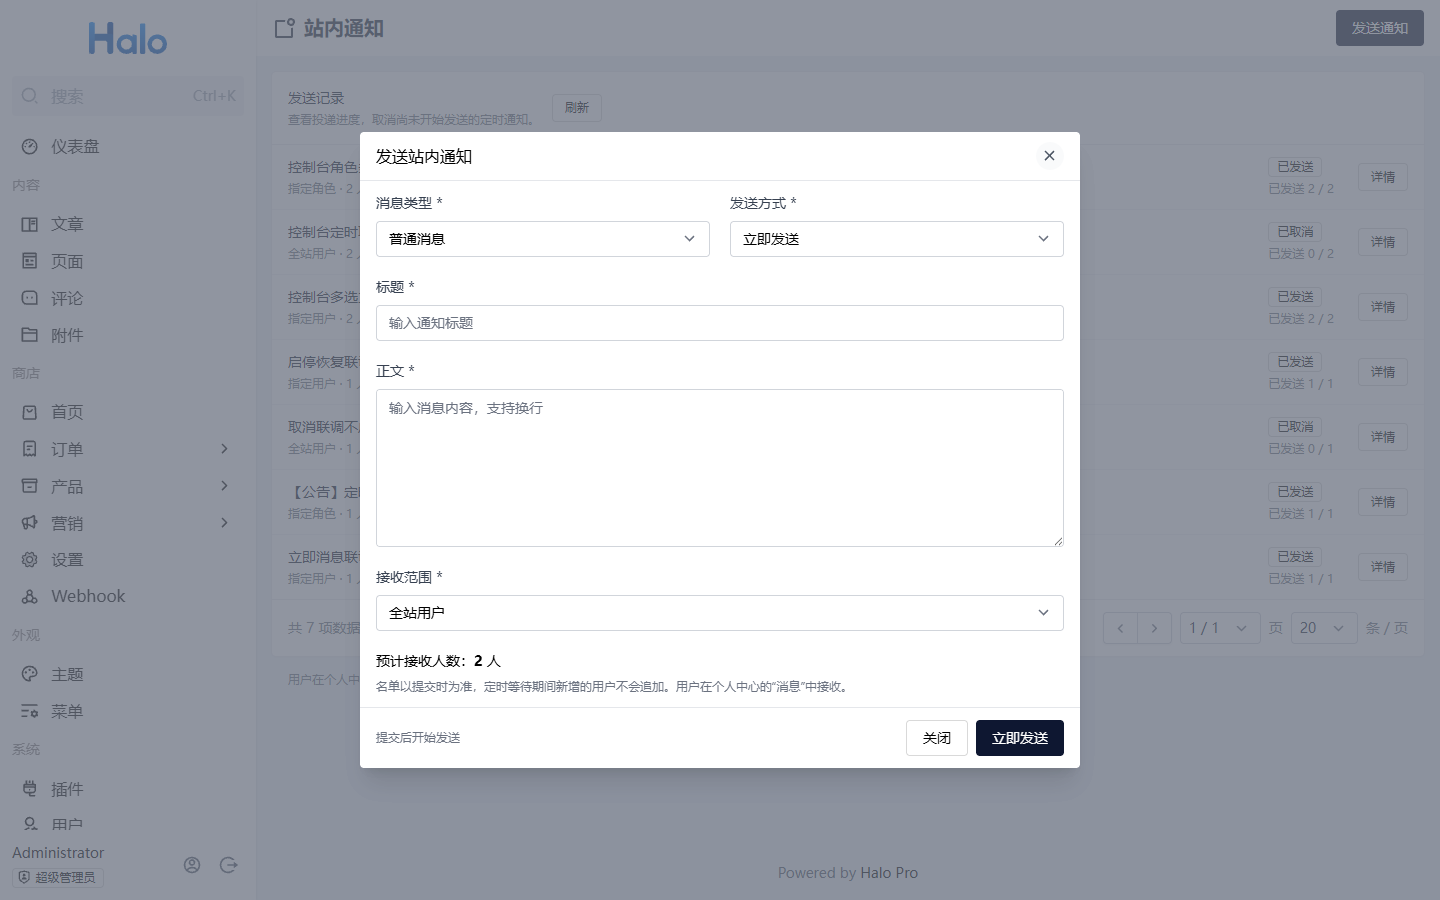
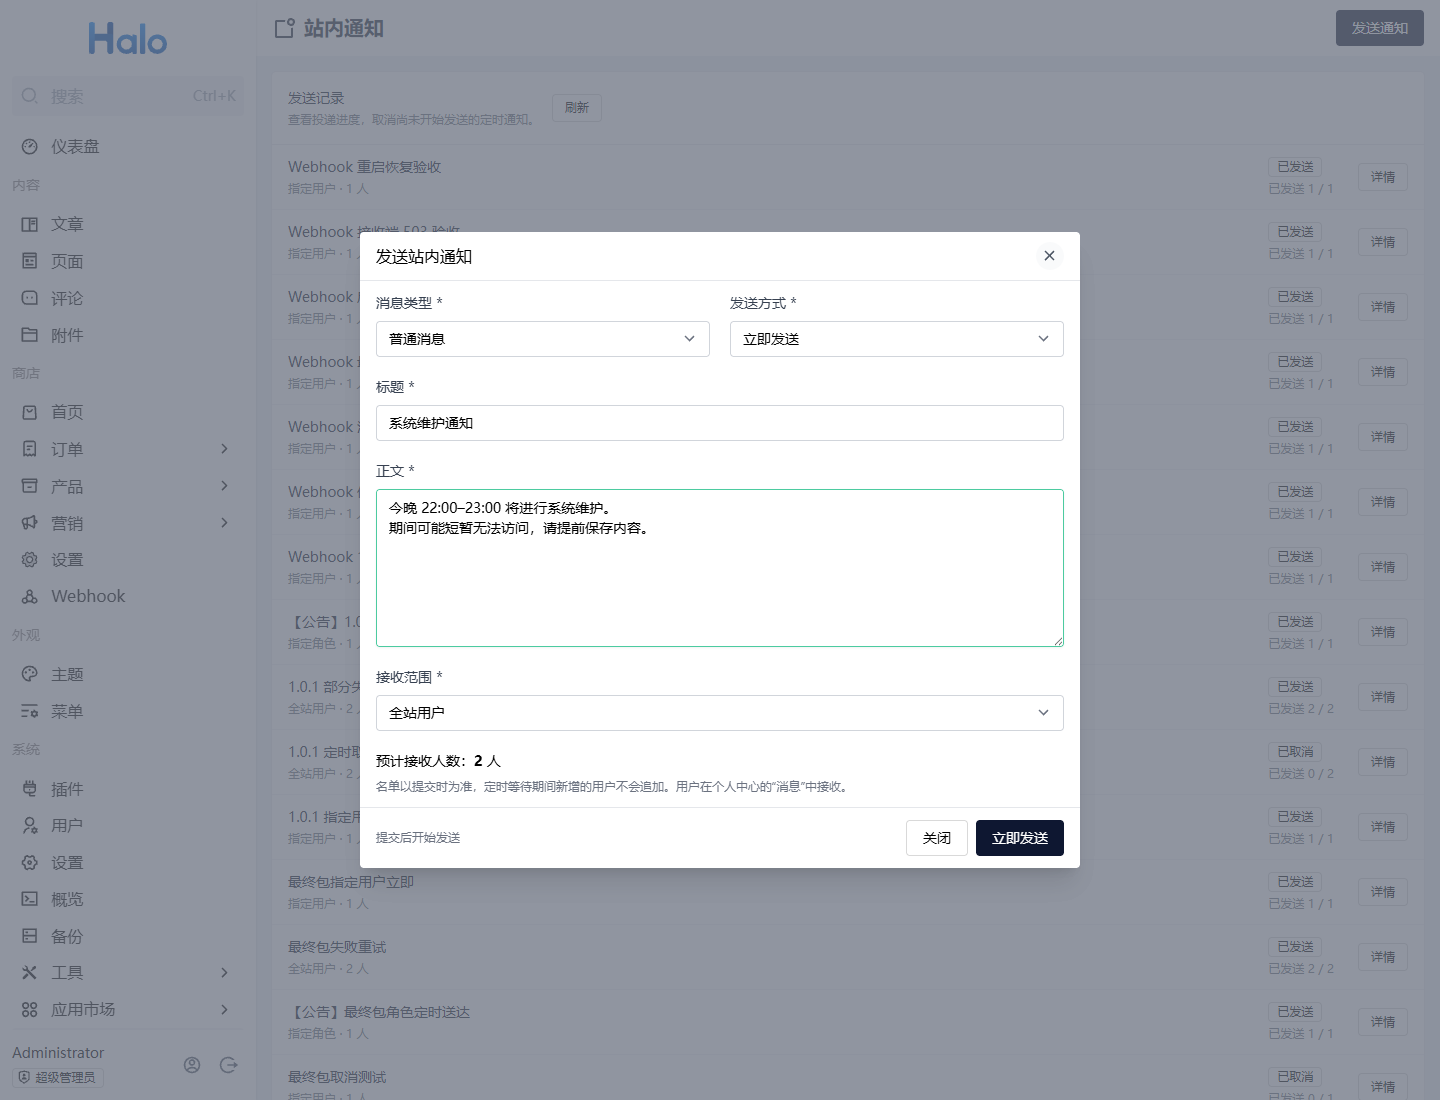
docs: update README with desktop screenshots

diff --git a/README.md b/README.md
@@ -37,20 +37,25 @@
 
 ## 截图预览
 
-### 控制台发送通知
+### 消息发送
 
-![控制台发送站内通知](docs/compose-desktop.png)
+![PC 端消息发送](docs/compose-desktop.png)
 
-### 移动端发送与记录
+### 定时发送
 
-<p>
-  <img src="docs/compose-mobile.png" alt="移动端发送通知" width="300">
-  <img src="docs/records-mobile.png" alt="移动端发送记录" width="300">
-</p>
+![PC 端定时发送](docs/scheduled-desktop.png)
 
-### 用户中心 Webhook 配置
+### 消息列表
 
-![用户中心 Webhook 通知配置](docs/webhook-user-center.png)
+![PC 端消息列表](docs/records-desktop.png)
+
+### Webhook 设置
+
+![PC 端 Webhook 设置](docs/webhook-user-center.png)
+
+### 订阅设置
+
+![PC 端通知订阅设置](docs/subscriptions-desktop.png)
 
 ## 系统要求
 
